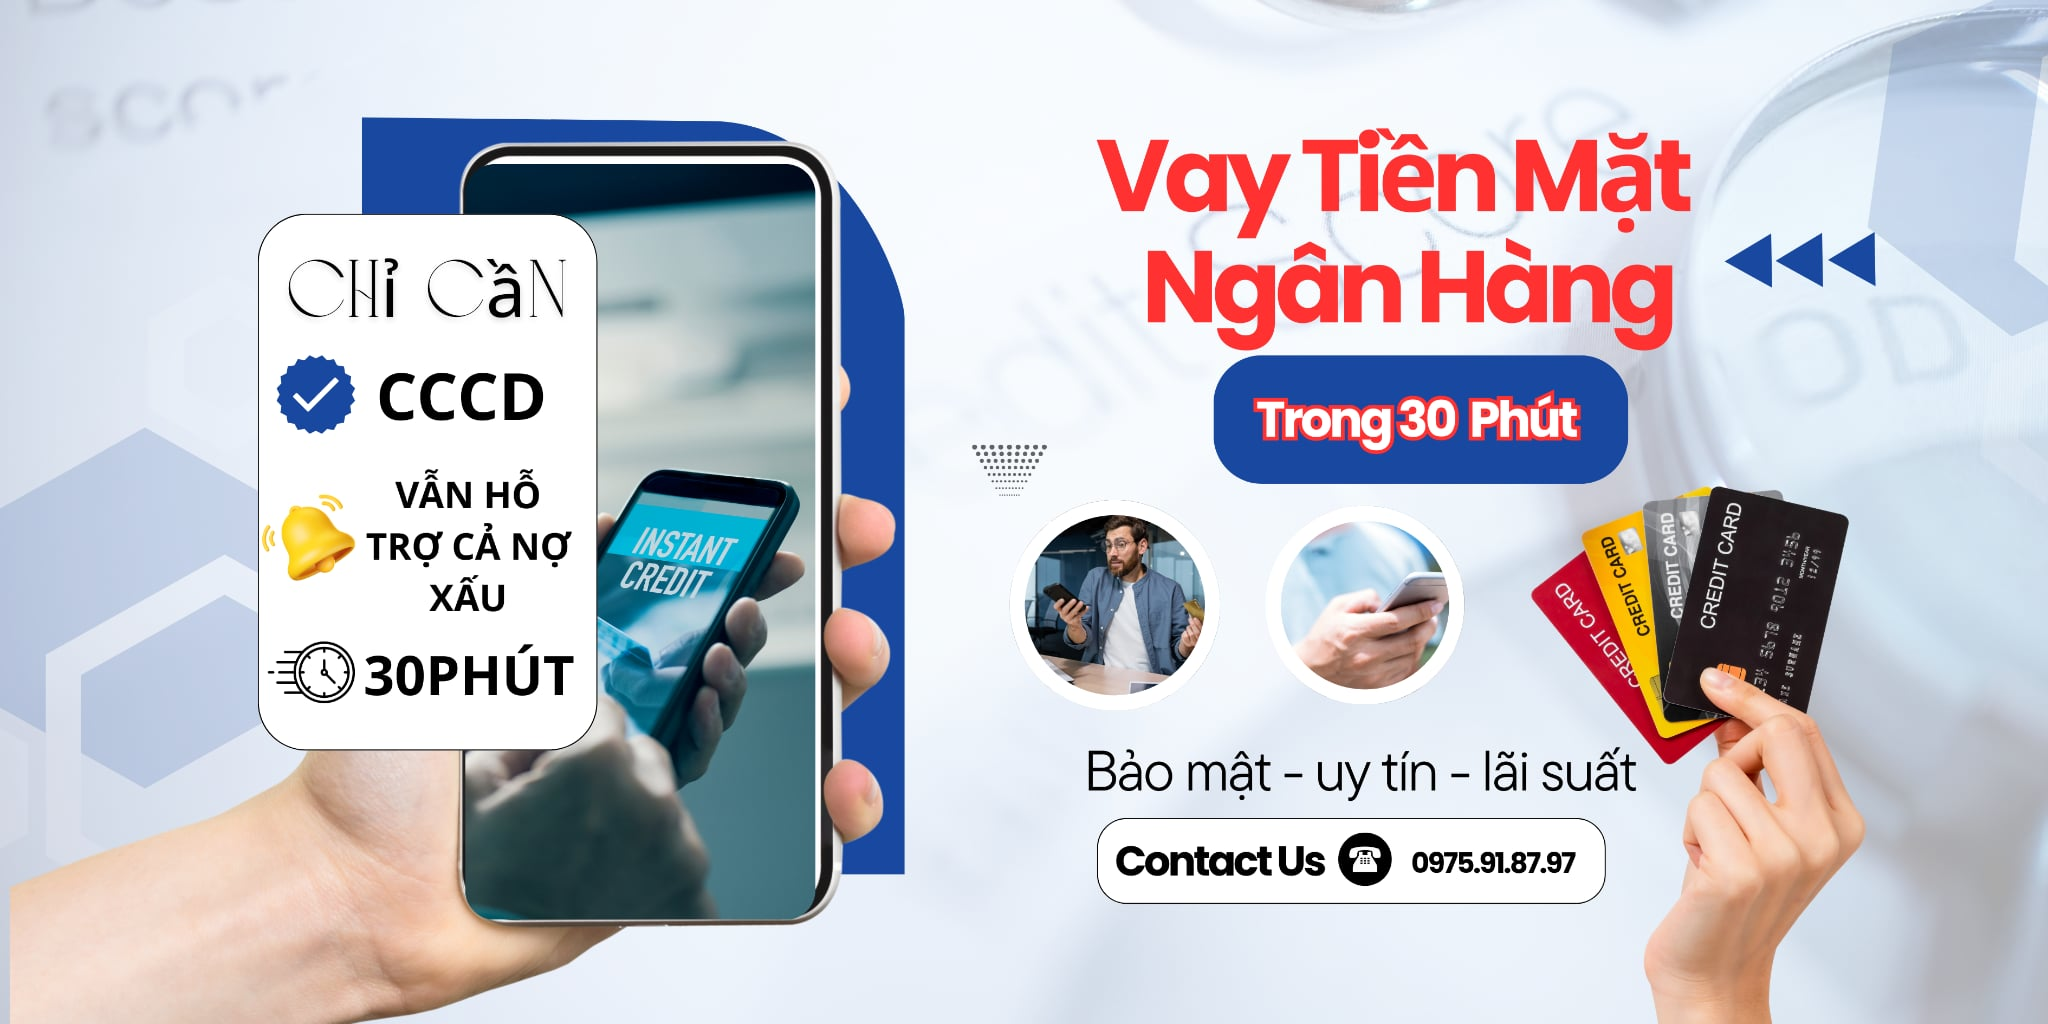
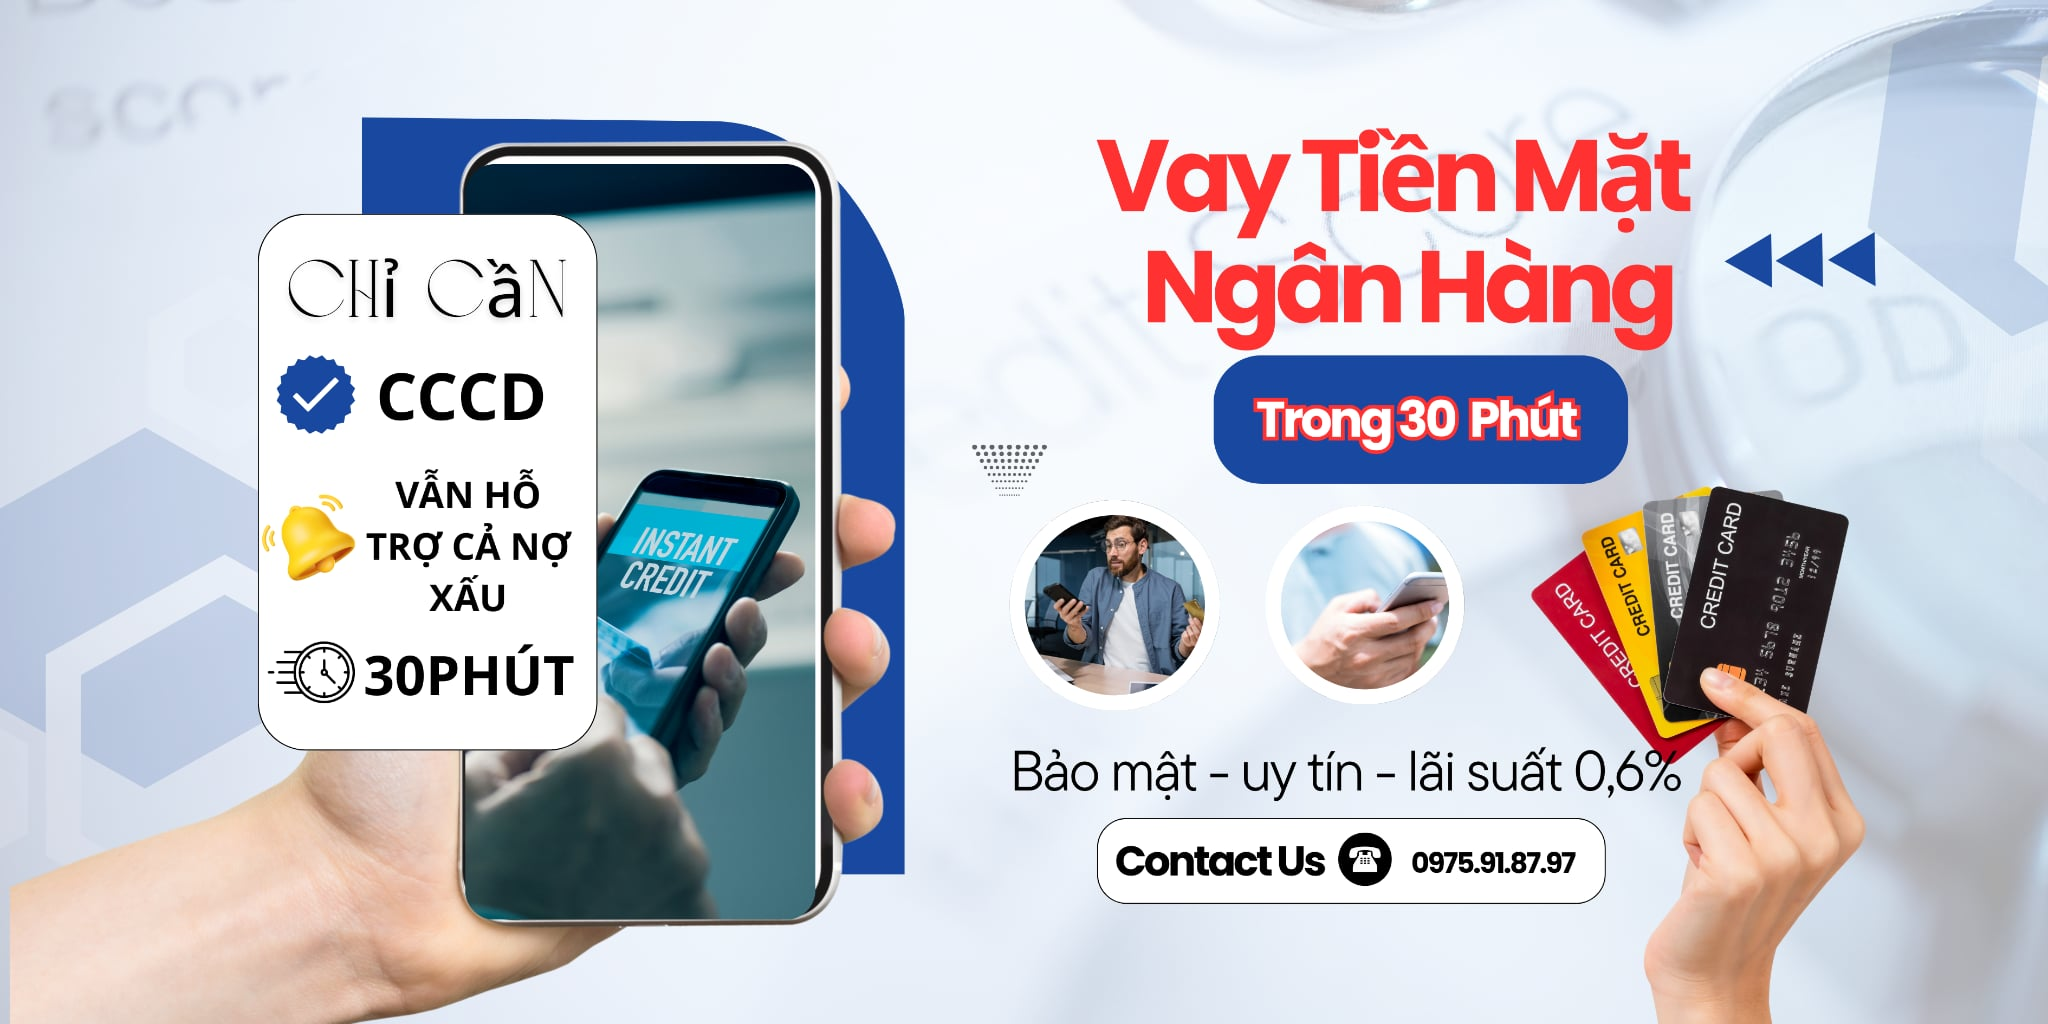
footer information

Changed region(s): [[0.5, 0.7188, 0.8125, 0.7812]]

diff --git a/components/home/Footer.tsx b/components/home/Footer.tsx
@@ -18,24 +18,24 @@ export default function Footer() {
             <h4 className="text-lg font-semibold mb-4">Liên Hệ</h4>
             <div className="space-y-3">
               <a
-                href="tel:0388502397"
+                href="tel:0975918797"
                 className="flex items-center justify-center md:justify-end gap-2 text-gray-300 hover:text-white transition-colors group"
               >
                 <Phone
                   size={20}
                   className="group-hover:scale-110 transition-transform"
                 />
-                <span className="text-lg font-medium">0388 502 397</span>
+                <span className="text-lg font-medium">0975 918 797</span>
               </a>
               <a
-                href="mailto:info@vexere.com"
+                href="mailto:thanhdia1995@gmail.com"
                 className="flex items-center justify-center md:justify-end gap-2 text-gray-300 hover:text-white transition-colors group"
               >
                 <Mail
                   size={20}
                   className="group-hover:scale-110 transition-transform"
                 />
-                <span>info@vexere.com</span>
+                <span>thanhdia1995@gmail.com</span>
               </a>
             </div>
           </div>
